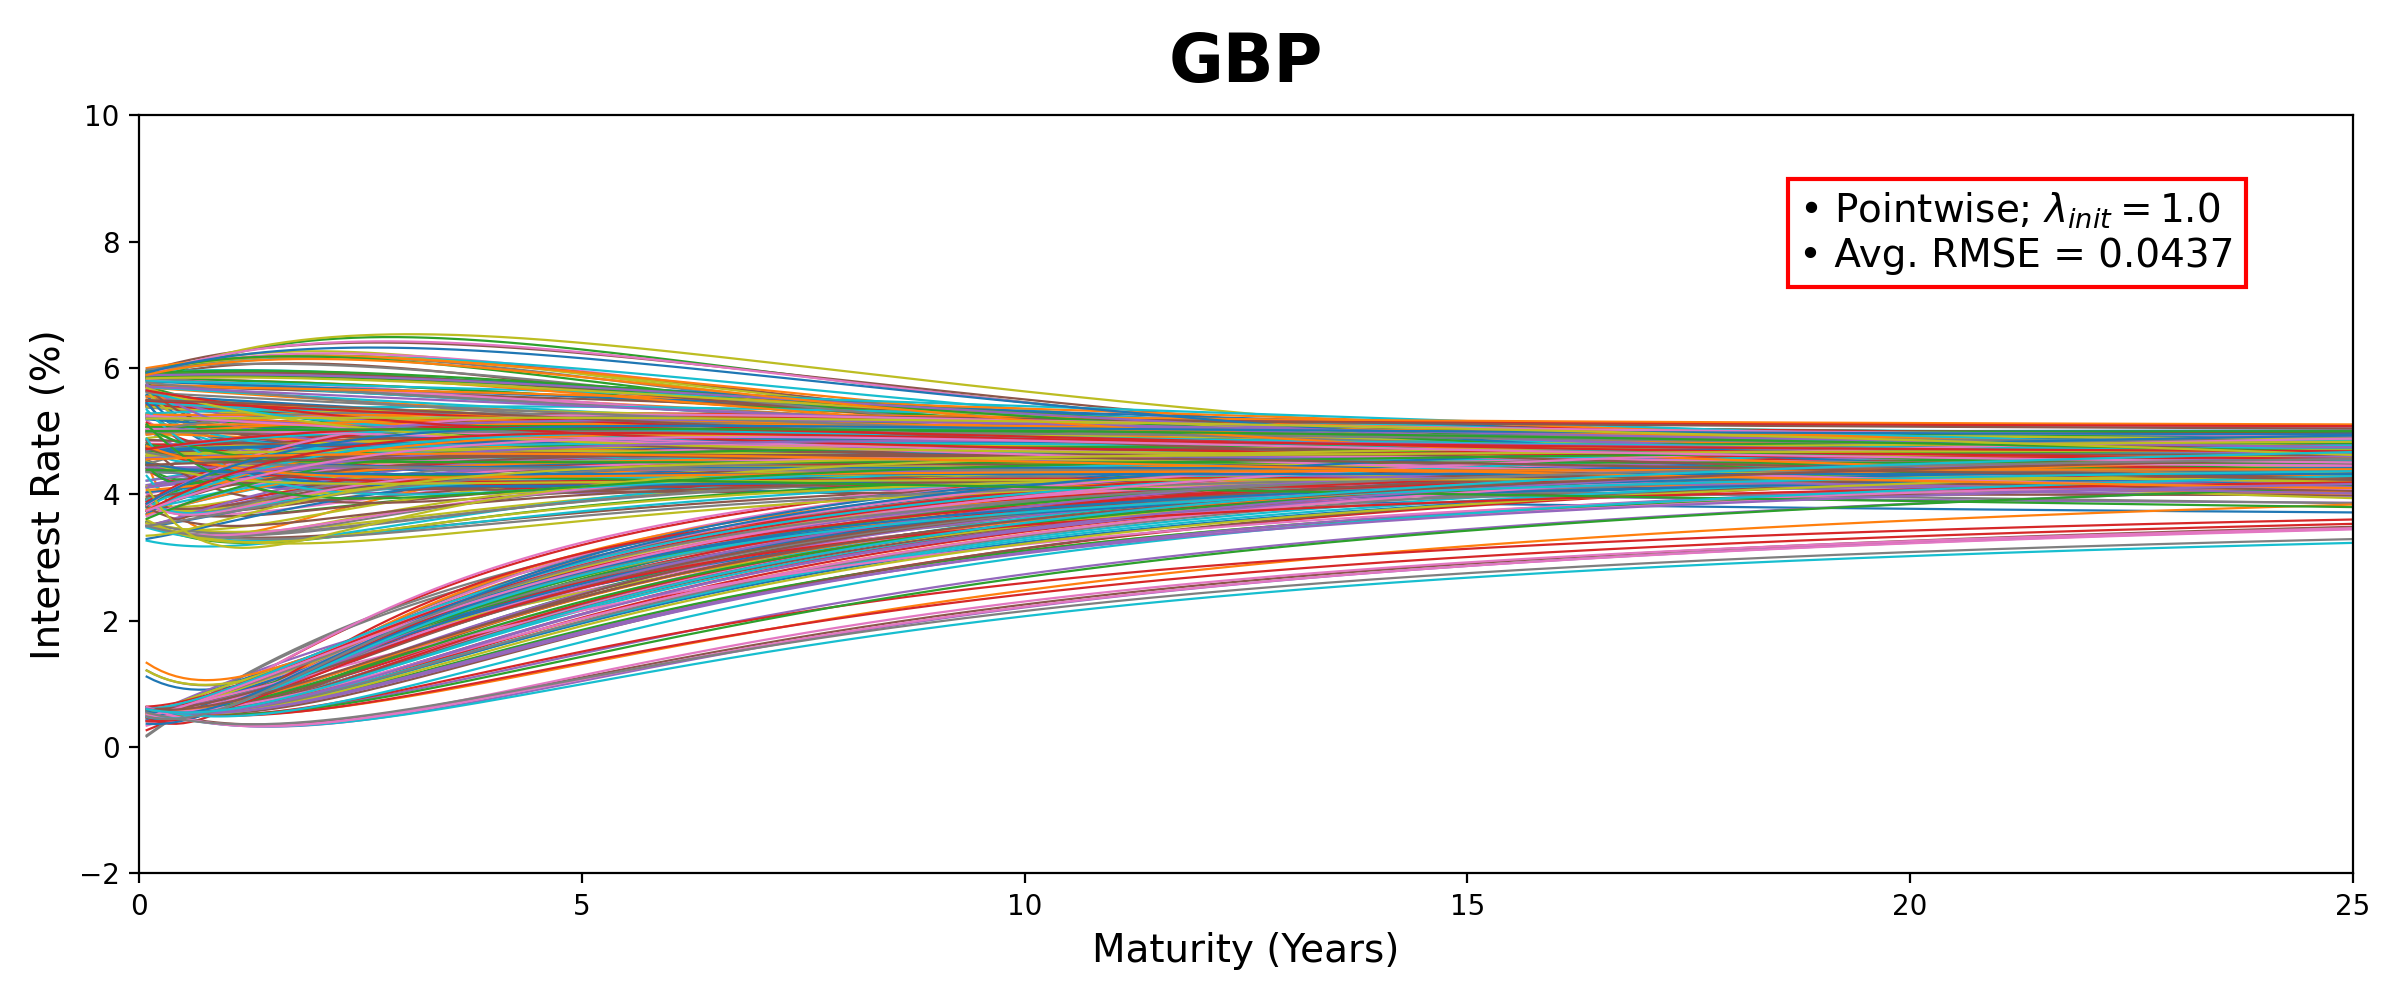
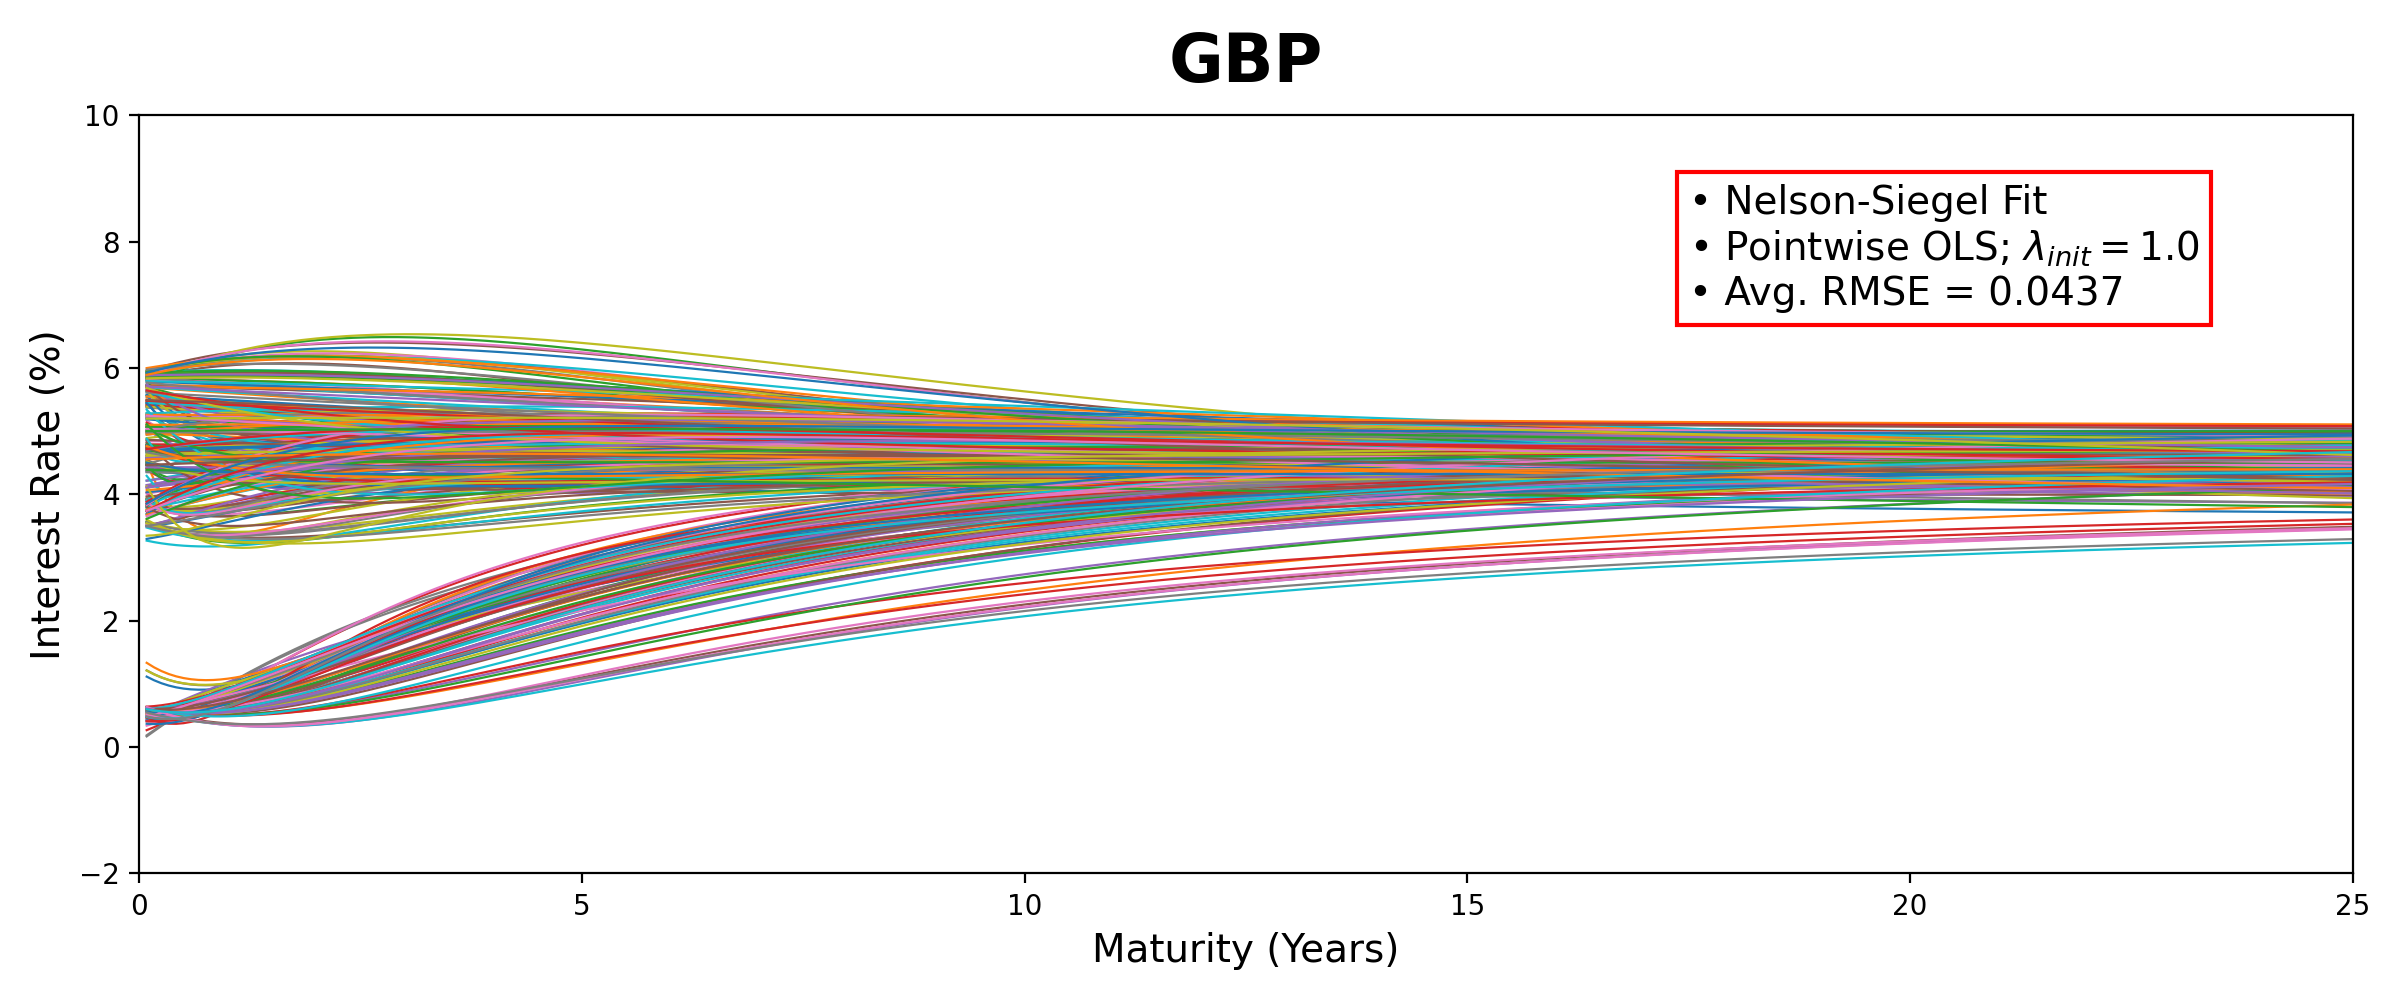
formatting

Changed region(s): [[0.6875, 0.155, 0.9375, 0.341]]

diff --git a/Chapter 2/parametric_models/yplot_ns_pointwise.py b/Chapter 2/parametric_models/yplot_ns_pointwise.py
@@ -46,7 +46,7 @@ def yield_curves_plot(maturities_years, fitted_curves, rmse_values, title, save_
         f"• Avg. RMSE = {avg_rmse:.4f}"
     )
     ax.text(
-        0.75, 0.80, info,
+        0.70, 0.75, info,
         transform=ax.transAxes,
         fontsize=14,
         bbox=dict(boxstyle="square", facecolor="white", edgecolor="red", linewidth=1.5)
